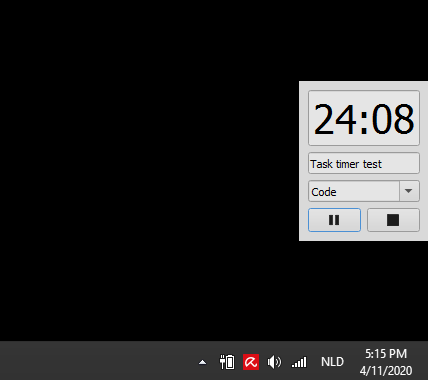
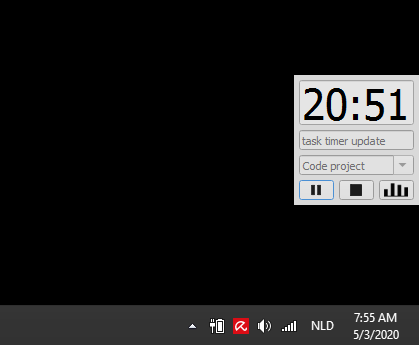
fix log locally, ready to test on other pc

Changed region(s): [[0.6826, 0.2029, 1.0, 0.6377], [0.0, 0.8696, 1.0, 1.0]]

diff --git a/task_timer.py b/task_timer.py
@@ -35,12 +35,21 @@ class TaskTimer(QtWidgets.QMainWindow):
         else:
             print('error, folder structure not recognized') 
 
-        log_elsewhere = True   
-        if log_elsewhere:
+        #------------------------------------------------------
+        #------------------------------------------------------
+        #------------------------------------------------------
+        self.log_elsewhere = True
+        #------------------------------------------------------
+        #------------------------------------------------------
+        #------------------------------------------------------
+
+        if self.log_elsewhere:
             self.log_dir = 'D:\Mijn_documenten\Dropbox\D_notebook\log_files'
         else:
             self.log_dir = os.path.join(base_path,'log_files')
 
+
+        print(self.log_dir) 
         self.fig_dir = os.path.join(base_path,'figs')
 
         # load currently stored task labels 
@@ -48,6 +57,13 @@ class TaskTimer(QtWidgets.QMainWindow):
         with open(  self.label_filename , 'r') as f:  
              self.labelOptions = json.load(f)    
   
+
+        # load currently stored task labels 
+        self.work_label_filename = os.path.join( self.log_dir, 'work_labels.json' )
+        with open(  self.work_label_filename , 'r') as f:  
+             self.work_labels = json.load(f)    
+        # self.work_labels= ['Flex pendulum']
+
         uic.loadUi( os.path.join(base_path, "task_timer_layout.ui"), self)#currency_converter  
 
         for label in  self.labelOptions: 
@@ -88,9 +104,7 @@ class TaskTimer(QtWidgets.QMainWindow):
  
         self.pushButtonPlot.clicked.connect(self.onPlot)
 
-
-
-        # switch to prevent double plotting 
+        # switch to prevent double plotting  (obsolete? )
         self.bool_plot = False 
 
         self.pushButtonStop.setIcon( self.style().standardIcon(QStyle.SP_MediaStop))
@@ -164,30 +178,28 @@ class TaskTimer(QtWidgets.QMainWindow):
         self.comboBoxLabel.setEnabled(True) 
 
 
-    def onPlot(self): 
-
-        # if self.bool_plot == False: 
+    def onPlot(self):  
         if len(plt.get_fignums()) ==0: 
             # make colorscheme 
             cols = np.array([
-                # [166,206,227], 
             [31,120,180], 
             [178,223,138], 
-            # [51,160,44], 
-            # [251,154,153], 
             [227,26,28], 
-            # [253,191,111], 
             [255,127,0], 
             [202,178,214], 
             [106,61,154], 
-            # [255,255,153]
+            [255,255,153],
+            [51,160,44], 
+            [251,154,153], 
+            [253,191,111], 
+            [166,206,227]
             ]) /255  
 
             # load most recent log file   
             log_files = sorted(glob.glob( self.log_dir+ '\*.csv')) 
+  
             df= pd.read_csv( log_files[-1], index_col=None, header=0)   
-            
-            # print()
+             
             # remove any task shorter than 1 minute, it's probably originated from a test
             bool_short_duration = df['Duration (s)'] < 60
             df = df[~bool_short_duration]
@@ -195,42 +207,27 @@ class TaskTimer(QtWidgets.QMainWindow):
             # modify data to useful format 
             df['date'] = pd.to_datetime(df['date'] )  
             df['Duration (hh:mm:ss)'] = pd.to_timedelta(df['Duration (s)'],'s') 
+ 
 
-            # find unique labels for color mapping
-            labels = df['Label'].unique()     
-            label_dict = {}
-            for label,col in zip(labels,cols): 
-                label_dict[label] = col  
+            if not df.empty:
+                # find unique labels for color mapping
+                labels = df['Label'].unique()     
+                label_dict = {}
+                for label,col in zip(labels,cols): 
+                    label_dict[label] = col  
 
-            # plot figure 
-            fig, ax = plt.subplots(2, 2, squeeze=False, figsize =(10,5))
-             
-            # create 3 subplots
-            alf.plot_week_tasks( ax[0,0], df, label_dict ) 
-            alf.plot_time_spent_weekly(ax[0,1], df, label_dict  )
-            alf.plot_time_spent_daily( ax[1,0], df, label_dict  ) 
-            alf.plot_week_text(ax[1,1], df, ['Flex pendulum','FEA wing','Lab business', 'FF timing pend'], 'Time worked')
-              
-            # adjust layout 
-            plt.subplots_adjust(left=None, bottom=None, right=None, top=None, wspace=.4, hspace=None)  
-               
-
-            # show figure 
-            # fig.canvas.draw()
-            # fig.show()
-
-        #     # return plot properties to allow for closing later 
-            # self.bool_plot = True 
-            # self.fig = fig
-            plt.show()
-            # return self
-        else: 
-            # print( plt.get_fignums())
-            # print( type(plt.get_fignums() ) )
-            # print( len(plt.get_fignums()))
-            # print('closing plot')
-            plt.close()
-            # self.bool_plot = False
+                # plot figure  
+                fig, ax = plt.subplots(2, 2, squeeze=False, figsize =(10,5))
+     
+                alf.plot_week_tasks( ax[0,0], df, label_dict ) 
+                alf.plot_time_spent_weekly( ax[0,1], df, label_dict  )
+                alf.plot_time_spent_daily( ax[1,0], df, label_dict  ) 
+                alf.plot_week_text(ax[1,1], df, self.work_labels, 'Time worked')
+                    
+                plt.subplots_adjust(left=None, bottom=None, right=None, top=None, wspace=.4, hspace=None)   
+                plt.show( ) 
+        else:  
+            plt.close()   
 
     def setColor(self):    
         p = self.palette() 

diff --git a/analyze_log_functions.py b/analyze_log_functions.py
@@ -51,8 +51,8 @@ def plot_week_tasks( ax_pl, df_week, label_dict, bool_legend=False ):
             ax_pl.bar(  x_v ,dy, bottom = y, 
                       color = label_dict[label] , label = label ) 
   
-    # set xlim 
-    first_day = pd.to_datetime( days_in_week[0] )
+    # set xlim  
+    first_day = pd.to_datetime( days_in_week[0] )  
     mon_day = first_day - datetime.timedelta( first_day.isocalendar()[2] -0.5 )
     sun_day = mon_day + datetime.timedelta( 7)     
     
@@ -97,8 +97,8 @@ def plot_week_tasks( ax_pl, df_week, label_dict, bool_legend=False ):
 #     ax_pl.annotate( mon_day.date(), (mon_day,7*3600), 
 
     # x_val = (mon_day+ datetime.timedelta(6)).timestamp()
-    # x_val = (mon_day).timestamp()
-    x_val = matplotlib.dates.date2num(mon_day)
+    # x_val = (mon_day).timestamp() 
+    x_val = matplotlib.dates.date2num(mon_day+ datetime.timedelta( 6)    )
     ax_pl.annotate( 'week of \n' + str(mon_day.date()), (x_val ,6*3600), 
                    va='top',ha='center' ,
                    bbox={'boxstyle':"round,pad=0.1", 'fc':"w",'ec':'w', 'alpha':0.9}) 

diff --git a/README.md b/README.md
@@ -1,18 +1,42 @@
 # task_timer
-A minimal timer that logs tasks per label to csv files (one per week). The Jupyter notebook can be used to analyze log files, an example is shown below.
-Currently data are logged not in this repository, see the Timer_Class, log_elsewhere = True.
+A python GUI of a minimal timer that logs tasks with selected label to csv files. It includes a button that shows logged time this week. Additionally, a jupter notebook is provided for more detailed analysis on all logged data. The GUI can be run as a python script, or with a few steps one can create an executable using pyinstaller.
 
-Timer behavior:
+#### Timer behavior:
 - The timer counts down from 25 minutes (25:00).
 - From 01:00 to 00:00, the background turns red incrementally.
 - At time 00:00, the timer resets to 25:00, continuing counting down.
 - The stop button resets the timer to 25:00
-- The task, label, start-time, date, and time spent are logged when either time equals 00:00 or stop is pressed
+- The task, label, start-time, date, and time spent are logged when either time equals 00:00 or stop is pressed;
 
 
-Screenshot of the task timer| The jupyter notebook visualization of weekly data
+Screenshot of the task timer| The visualization of weekly data
 :-------------------------:|:-------------------------:
-<img src="./figs/task_timer_example.png" alt="drawing" style="width:300px;"/>|      <mimg src="./figs/week_analysis.png" alt="drawing" style="width:500px;"/>
+<img src="./figs/task_timer_example.png" alt="drawing" style="width:300px;"/>|      <img src="./figs/week_analysis.png" alt="drawing" style="width:500px;"/>
 
-## Background
-The timer GUI is based on PyQt5. The executable version is built using pyinstaller, though it currently takes up over 30 Mb (and needs to be in the same folder as the Task_timer.py file?).
+
+#### How to use the python script
+I currently have the `task_timer` set up to log my time in a folder away from this repository. Step 1 fixes this for you.
+
+Step 1, I recommend forking this repository and change one of two lines in `task_timer.py`:
+
+`self.log_elsewhere = False`
+
+or
+
+`self.log_dir = 'insert-your-desired-logfile-location'`
+
+Step 2, run `task_timer.py` in python3.
+
+#### How to create an executable
+With pyinstaller this script can be turned into an executable that is standalone. Because the plotting code requires a few common python packages (such as pandas), the executable becomes rather big (~200Mb). Pyinstaller is a bit finicky in the package versions it takes in so I recommend using pythons virtual environment package.
+
+Step 1. Create a virtual environmennt in the `task_timer` folder according to https://docs.python.org/3/tutorial/venv.html.
+
+Step 2. Run `pip install -r requirements.txt`, this installs the pyinstaller-compatible package versions. Especially numpy and matplotlib versions can cause trouble.
+
+Step 3. Run `pyinstaller task_timer.spec`. This will create the executable in the `dist` folder.
+
+#### How to customize drop down labels
+The labels in the drop-down menu are saved in the `label_options.json` file in the  `log_files` folder. If you type in a new label in the `task_timer` it will be added to `label_options.json`. To remove unwanted labels, delete them in the `.json` file.
+
+Similarly, in the visualization there is a printout `Time spent on label1, label2, label3:`. To customize this, adjust the desired labels to sum in `work_labels.json` (agian, in the log_file folder). 
